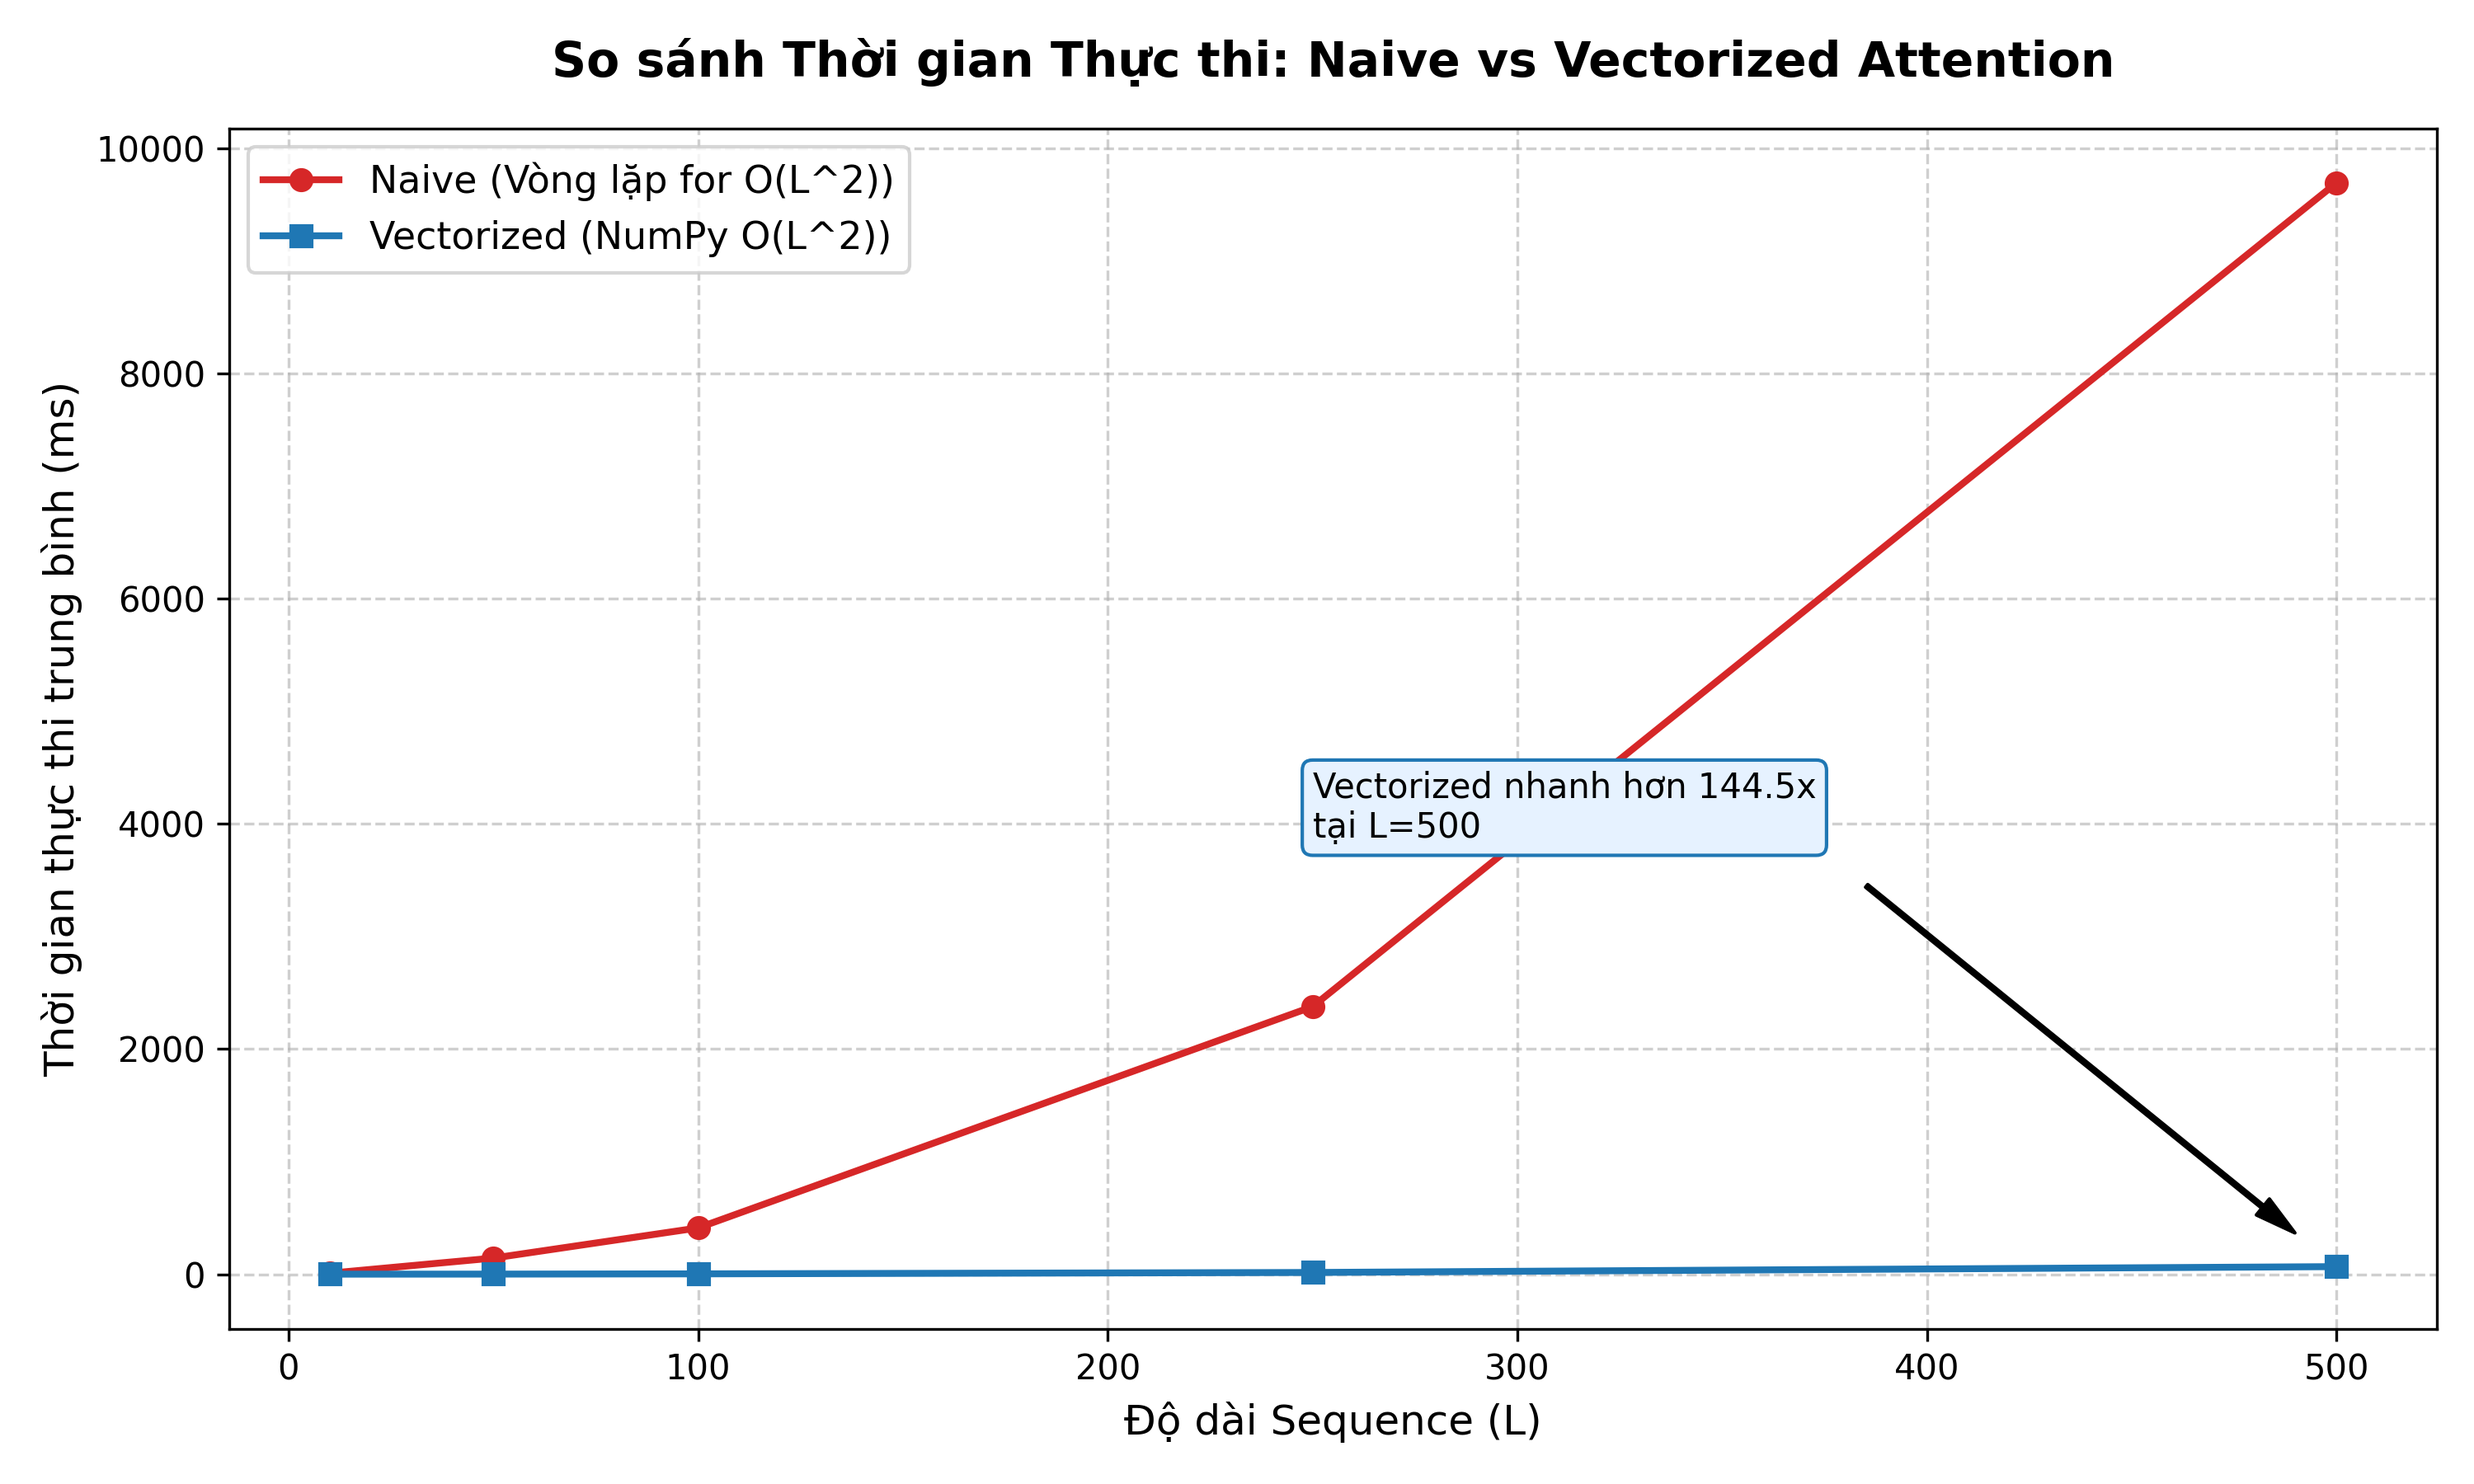
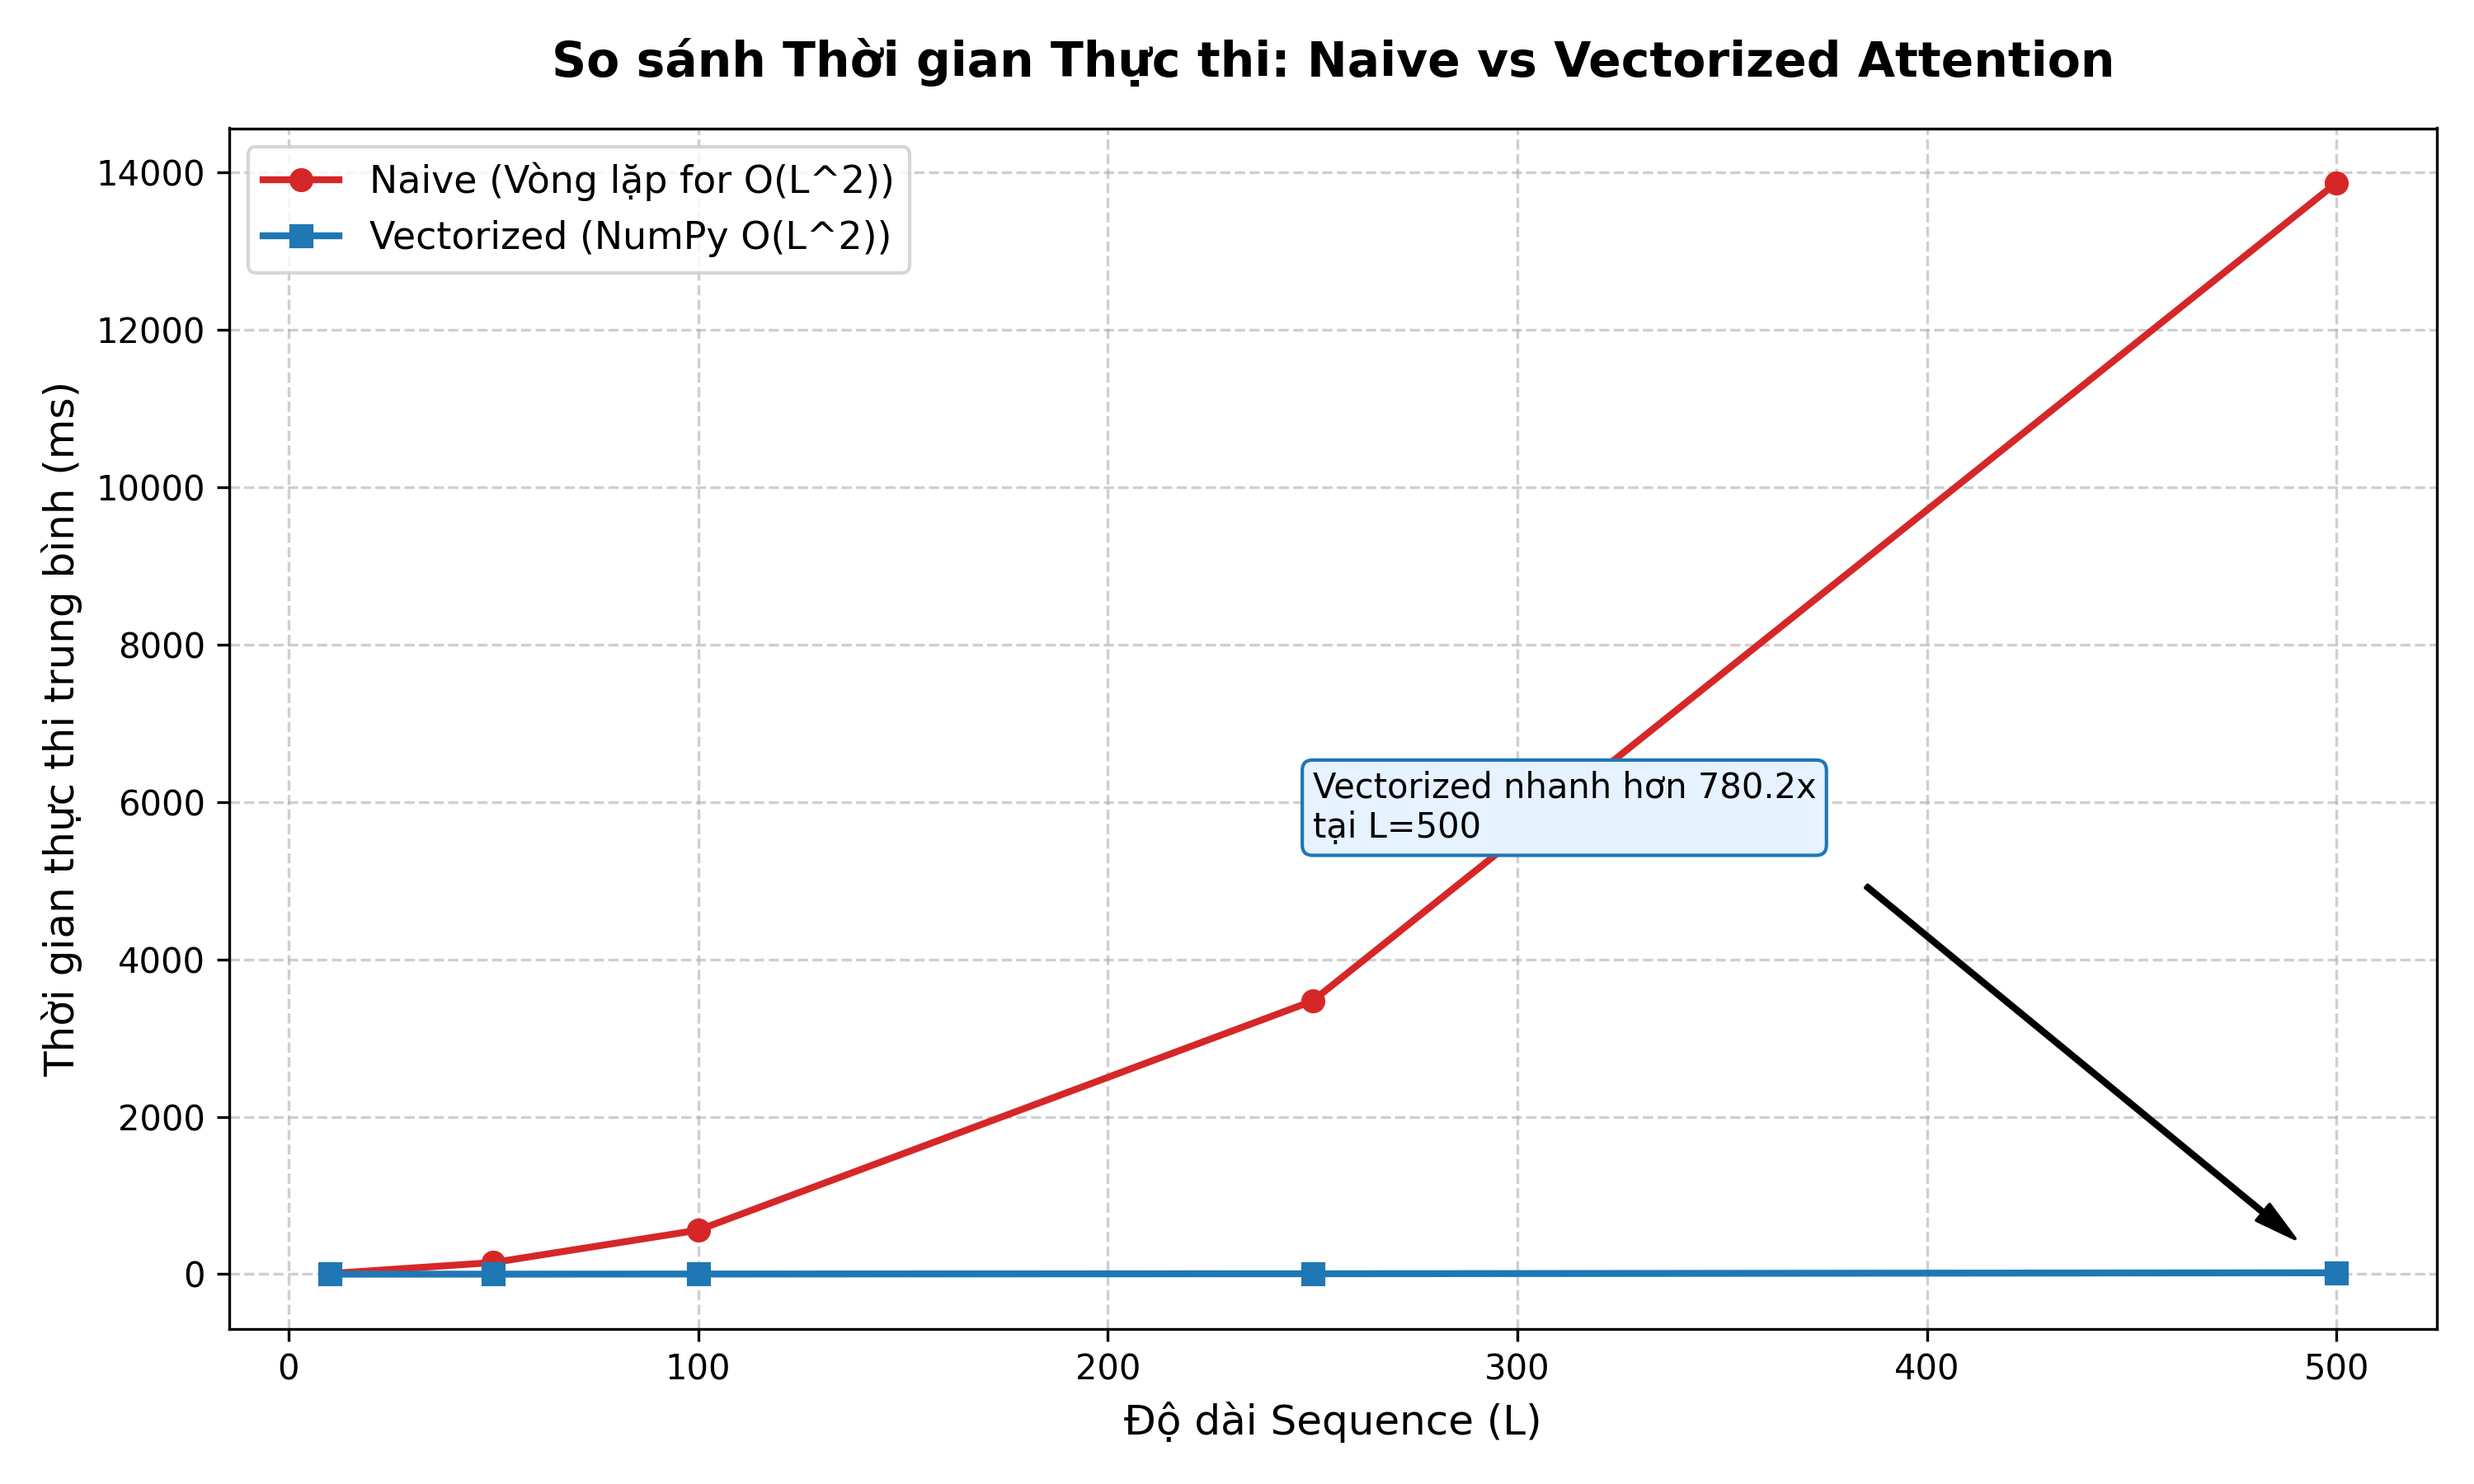
fix(task4): resolve import path issue on Windows and update benchmark plots

diff --git a/experiments/benchmark.py b/experiments/benchmark.py
@@ -6,7 +6,7 @@ import numpy as np
 import matplotlib.pyplot as plt
 
 # Thêm thư mục gốc vào path để import src
-sys.path.append(os.path.abspath(os.path.join(os.path.dirname(__file__), '..')))
+sys.path.append(os.path.dirname(os.path.dirname(os.path.abspath(__file__))))
 from src.multi_head import MultiHeadAttention
 
 # =====================================================================
